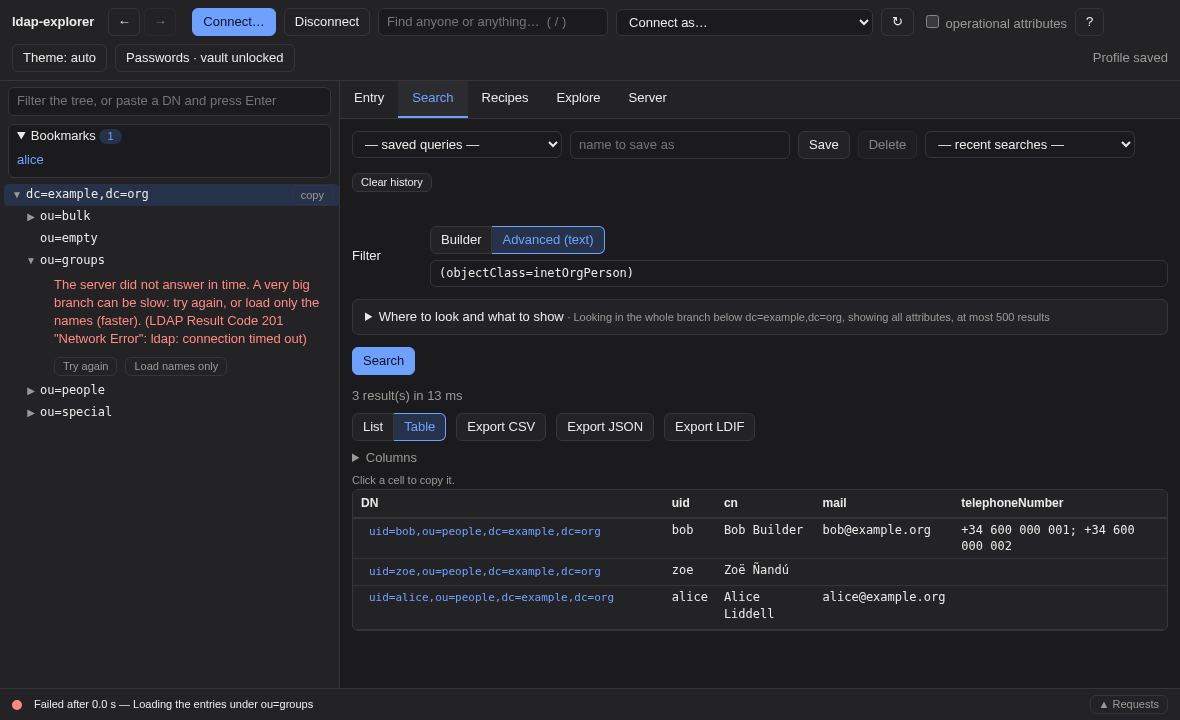
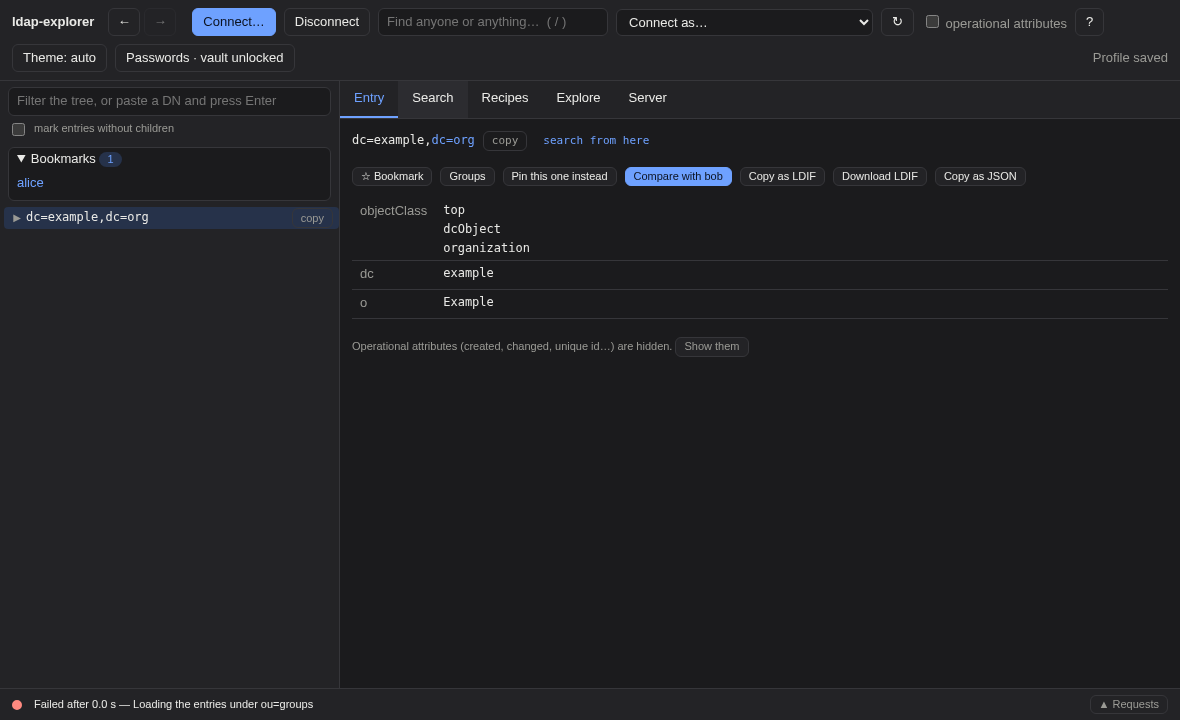
Tree: names only by default; 'mark entries without children' is an opt-in setting
Asking which entries have children is what makes a page of a huge branch slow on some servers.
Settings are merged per field (theme and the tree option no longer overwrite each other).

Refs #7

diff --git a/front/js/tree.js b/front/js/tree.js
@@ -6,6 +6,7 @@ import { ancestors, normDN, looksLikeDN, matchesFilter } from "./nav.js";
 import { copyBtn } from "./ui/copy.js";
 import { childrenURL, loadedText, isTimeout } from "./tree-model.js";
 import { friendlyError } from "./friendly-errors.js";
+import { childHints } from "./settings.js";
 
 let roots = [];
 let selectedNode = null;
@@ -28,6 +29,7 @@ export function initTree() {
     $("tree").replaceChildren(el("div", { class: "empty", textContent: "Not connected." }));
   });
   $("btnRefresh").onclick = buildTree;
+  on("child-hints-changed", () => { if (roots.length) { lightDNs.clear(); buildTree(); } }); // what each node knows changes: start again
 
   const filter = $("treeFilter");
   filter.addEventListener("input", applyFilter);
@@ -61,6 +63,7 @@ function makeNode(n) {
     copyBtn(n.dn, { title: "Copy this DN", what: "Copied the DN" }));
   let kids = null, open = false;
   let cursor = "", loaded = 0, moreRow = null, loading = null, observer = null;
+  let namesOnly = false; // the listing of this branch asks for the names only (so "Load names only" would change nothing)
 
   // The "N loaded, more below" row at the end of a long branch. It loads the next page by
   // itself when it scrolls into view (and not while the filter is on: that would read the
@@ -72,7 +75,7 @@ function makeNode(n) {
     if (failure) {
       row.append(el("span", { class: "err", textContent: failure }),
         el("button", { type: "button", class: "small-btn more-retry", textContent: timedOut ? "Try again" : "Reload this branch", onclick: () => reload(false) }),
-        ...(timedOut ? [el("button", { type: "button", class: "small-btn more-light", textContent: "Load names only",
+        ...(timedOut && !namesOnly ? [el("button", { type: "button", class: "small-btn more-light", textContent: "Load names only",
           title: "Ask the server for the names only, which is much cheaper on a huge branch. Every entry then shows the arrow, because it is not asked which ones have children.",
           onclick: () => reload(true) })] : []));
     } else {
@@ -129,12 +132,13 @@ function makeNode(n) {
     if (open && !kids) {
       tw.textContent = "…";
       try {
-        const light = lightDNs.has(normDN(n.dn));
-        const res = await api(childrenURL(n.dn, "", light));
+        const slow = lightDNs.has(normDN(n.dn));           // this branch already timed out with the full listing
+        namesOnly = slow || !childHints();
+        const res = await api(childrenURL(n.dn, "", namesOnly));
         kids = el("ul", { class: "t" });
         if (!res.children.length) { n.leaf = true; tw.textContent = ""; return; }
         li.append(kids);
-        if (light) kids.append(el("li", { class: "more", textContent: "Names only (the server was slow): every entry shows ▶." }));
+        if (slow) kids.append(el("li", { class: "more", textContent: "Names only (the server was slow): every entry shows ▶." }));
         addPage(res);
       } catch (e) {
         if (e.cancelled) { open = false; tw.textContent = "▶"; return; }

diff --git a/front/js/settings.js b/front/js/settings.js
@@ -2,9 +2,15 @@
 // survives restarts (the browser address changes with every start, so localStorage would not).
 import { $ } from "./dom.js";
 import { api } from "./api.js";
+import { emit } from "./events.js";
 import { nextTheme, themeLabel, themeAttribute } from "./settings-model.js";
 
 let theme = "auto";
+let hints = false; // ask the server which entries have children (see settings.go)
+
+// Does the tree ask which entries have children? Off by default: it is what makes a page of a
+// huge branch slow, and without it the tree loads the names only.
+export const childHints = () => hints;
 
 function apply() {
   const attr = themeAttribute(theme);
@@ -19,6 +25,12 @@ export async function initSettings() {
     apply();
     try { await api("/api/settings", { body: { theme } }); } catch { /* the choice still applies to this session */ }
   };
-  try { theme = (await api("/api/settings")).theme || "auto"; } catch { theme = "auto"; }
+  $("chkHints").onchange = async () => {
+    hints = $("chkHints").checked;
+    try { await api("/api/settings", { body: { childHints: hints } }); } catch { /* it still applies to this session */ }
+    emit("child-hints-changed", { on: hints });
+  };
+  try { const s = await api("/api/settings"); theme = s.theme || "auto"; hints = !!s.childHints; } catch { theme = "auto"; }
+  $("chkHints").checked = hints;
   apply();
 }

diff --git a/front/index.html b/front/index.html
@@ -28,7 +28,9 @@
 </header>
 <main>
   <nav id="treeBox">
-    <div class="treebar"><input type="text" id="treeFilter" aria-label="Filter the tree, or paste a DN to go to it" placeholder="Filter the tree, or paste a DN and press Enter" disabled autocomplete="off" spellcheck="false"></div>
+    <div class="treebar"><input type="text" id="treeFilter" aria-label="Filter the tree, or paste a DN to go to it" placeholder="Filter the tree, or paste a DN and press Enter" disabled autocomplete="off" spellcheck="false">
+      <label class="muted small hints-opt" title="Ask the server which entries have children, so the ones without show no arrow. Slower on a huge directory: off by default, the tree then loads the names only and every entry shows the arrow."><input type="checkbox" id="chkHints"> mark entries without children</label>
+    </div>
     <details id="bookmarks" class="bookmarks">
       <summary>Bookmarks <span id="bmCount" class="badge">0</span></summary>
       <ul id="bmList" class="bmlist"></ul>

diff --git a/front/css/components.css b/front/css/components.css
@@ -322,3 +322,7 @@ table.attrs td.v .hint { color: var(--muted); font-family: var(--font); font-siz
 .act-row.done.error .spinner { background: var(--err); border-color: var(--err); }
 .ap-empty { margin: 0; }
 @media (prefers-reduced-motion: reduce) { .act-row.running .spinner { animation: none; } }
+
+.treebar { display: flex; flex-direction: column; gap: 4px; }
+.hints-opt { display: flex; align-items: center; gap: 6px; cursor: pointer; }
+.treebar .hints-opt input { width: auto; }

diff --git a/e2e/ui_test.go b/e2e/ui_test.go
@@ -2397,6 +2397,7 @@ func TestUITreeTimeoutOffersNamesOnly(t *testing.T) {
 			return real(url, init);
 		};
 		return true; })()`))
+	run(t, ctx, chromedp.Click("#chkHints")) // the full listing (with "has children?") is what can time out
 	connect(t, ctx, l.URL, slapdtest.AliceDN, slapdtest.AlicePW)
 	waitText(t, ctx, "#status", "Connected to")
 	bulk := `.node[title="ou=bulk,` + slapdtest.BaseDN + `"]`
@@ -2430,4 +2431,41 @@ func TestUITreeTimeoutOffersNamesOnly(t *testing.T) {
 	if !jsBool(t, ctx, `window.__children.length === 3`) {
 		t.Error("an already loaded branch is not asked for again")
 	}
+}
+
+// ---------- the tree loads the names only unless asked to mark the entries without children ----------
+
+func TestUITreeLoadsNamesOnlyByDefault(t *testing.T) {
+	l := slapdtest.Start(t)
+	appURL := startApp(t)
+	ctx := browser(t)
+	run(t, ctx, chromedp.Navigate(appURL), chromedp.WaitVisible("#btnConn"))
+	run(t, ctx, eval(`(() => {
+		const real = window.fetch.bind(window);
+		window.__children = [];
+		window.fetch = (url, init) => { if (String(url).startsWith('/api/children')) window.__children.push(String(url)); return real(url, init); };
+		return true; })()`))
+	connect(t, ctx, l.URL, slapdtest.AliceDN, slapdtest.AlicePW)
+	waitText(t, ctx, "#status", "Connected to")
+	if jsBool(t, ctx, `document.getElementById('chkHints').checked`) {
+		t.Fatal("the option starts off")
+	}
+	root := `.node[title="` + slapdtest.BaseDN + `"]`
+	empty := `.node[title="ou=empty,` + slapdtest.BaseDN + `"]`
+	run(t, ctx, chromedp.WaitVisible(root), chromedp.Click(root+" .tw"), chromedp.WaitVisible(empty))
+	// Names only: the empty branch looks like any other, with the arrow.
+	if !jsBool(t, ctx, `document.querySelector('`+empty+` .tw').textContent === '▶' && window.__children.every(u => u.includes('light=1'))`) {
+		t.Error("by default the tree asks for the names only, so every entry shows the arrow")
+	}
+	// Marking the entries without children asks for the full listing, and the empty branch loses its arrow.
+	run(t, ctx, chromedp.Click("#chkHints"))
+	waitJS(t, ctx, "the tree starts again", `document.querySelectorAll('#tree .node').length === 1`)
+	run(t, ctx, chromedp.WaitVisible(root), chromedp.Click(root+" .tw"), chromedp.WaitVisible(empty))
+	waitJS(t, ctx, "the empty branch is a leaf", `document.querySelector('`+empty+` .tw').textContent === ''`)
+	if !jsBool(t, ctx, `!window.__children[window.__children.length - 1].includes('light=1')`) {
+		t.Error("with the option on the listing is the full one")
+	}
+	// It is remembered (the server keeps it): a reload of the page starts with it on.
+	reload(t, ctx, appURL)
+	waitJS(t, ctx, "remembered", `document.getElementById('chkHints').checked`)
 }

diff --git a/settings.go b/settings.go
@@ -13,6 +13,10 @@ import (
 
 type Settings struct {
 	Theme string `json:"theme"` // auto, light or dark
+	// ChildHints: ask the server which entries have children, so the tree can show the ones without
+	// as leaves. Off by default: on a huge branch that question is what makes a page slow, and the
+	// tree then loads the names only (every entry shows the arrow).
+	ChildHints bool `json:"childHints,omitempty"`
 }
 
 var settingsMu sync.Mutex
@@ -48,14 +52,25 @@ func handleSettings(w http.ResponseWriter, r *http.Request) {
 		}
 		writeJSON(w, s)
 	case http.MethodPost:
-		var s Settings
-		if err := decode(r, &s); err != nil {
+		// Each field is optional: the theme button sends only the theme, the tree option only its own.
+		var in struct {
+			Theme      *string `json:"theme"`
+			ChildHints *bool   `json:"childHints"`
+		}
+		if err := decode(r, &in); err != nil {
 			writeErr(w, err)
 			return
 		}
-		if s.Theme != "auto" && s.Theme != "light" && s.Theme != "dark" {
-			writeErr(w, errors.New("theme must be auto, light or dark"))
-			return
+		s, _ := loadSettings() // a broken file starts again from the defaults
+		if in.Theme != nil {
+			if *in.Theme != "auto" && *in.Theme != "light" && *in.Theme != "dark" {
+				writeErr(w, errors.New("theme must be auto, light or dark"))
+				return
+			}
+			s.Theme = *in.Theme
+		}
+		if in.ChildHints != nil {
+			s.ChildHints = *in.ChildHints
 		}
 		if err := writePrivateJSON(settingsPath(), s); err != nil {
 			writeErr(w, err)

diff --git a/e2e/screenshots_test.go b/e2e/screenshots_test.go
@@ -189,8 +189,9 @@ func TestScreenshots(t *testing.T) {
 	shot("tree-more")
 	run(t, ctx, set("#treeFilter", ""), eval(`document.getElementById('treeFilter').dispatchEvent(new Event('input'))`), chromedp.Click(bulk+" .tw"))
 
-	// 5f. A branch so big that the directory times out: what the tree says and offers.
-	run(t, ctx, eval(`(() => {
+	// 5f. A branch so big that the directory times out: what the tree says and offers. (With the
+	// option "mark entries without children" on: that is the full listing that can time out.)
+	run(t, ctx, chromedp.Click("#chkHints"), eval(`(() => {
 		const real = window.fetch.bind(window);
 		window.fetch = async (url, init) => {
 			if (String(url).startsWith('/api/children') && decodeURIComponent(String(url)).includes('dn=ou=groups,')) {
@@ -203,7 +204,7 @@ func TestScreenshots(t *testing.T) {
 	waitJS(t, ctx, "branches", `!!document.querySelector('.node[title="ou=groups,`+slapdtest.BaseDN+`"]')`)
 	run(t, ctx, chromedp.Click(`.node[title="ou=groups,`+slapdtest.BaseDN+`"] .tw`), chromedp.WaitVisible(".more-row .more-light"))
 	shot("tree-timeout")
-	run(t, ctx, eval(`window.fetch = window.__realFetch || window.fetch`))
+	run(t, ctx, eval(`window.fetch = window.__realFetch || window.fetch`), chromedp.Click("#chkHints"))
 
 	// 6. Dark theme (follows the system setting), on the table again.
 	run(t, ctx, chromedp.Click(`button[data-tab="search"]`))

diff --git a/settings_test.go b/settings_test.go
@@ -68,3 +68,28 @@ func TestBrokenSettingsFileFallsBackToTheDefaults(t *testing.T) {
 		}
 	}
 }
+
+// Each setting is saved on its own: choosing the theme must not undo the tree option, and the
+// other way round (the two controls send only their own field).
+func TestSettingsAreMergedNotReplaced(t *testing.T) {
+	srv := newTestServer(t)
+	var s Settings
+	call(t, srv, "POST", "/api/settings", map[string]any{"childHints": true}, &s)
+	if !s.ChildHints || s.Theme != "auto" {
+		t.Fatalf("after the tree option: %+v", s)
+	}
+	call(t, srv, "POST", "/api/settings", map[string]any{"theme": "dark"}, &s)
+	if !s.ChildHints || s.Theme != "dark" {
+		t.Fatalf("choosing the theme must keep the tree option: %+v", s)
+	}
+	call(t, srv, "POST", "/api/settings", map[string]any{"childHints": false}, &s)
+	var got Settings
+	call(t, srv, "GET", "/api/settings", nil, &got)
+	if got.ChildHints || got.Theme != "dark" {
+		t.Errorf("turning the option off keeps the theme: %+v", got)
+	}
+	// off by default
+	if (Settings{}).ChildHints {
+		t.Error("the child hints are off by default")
+	}
+}
